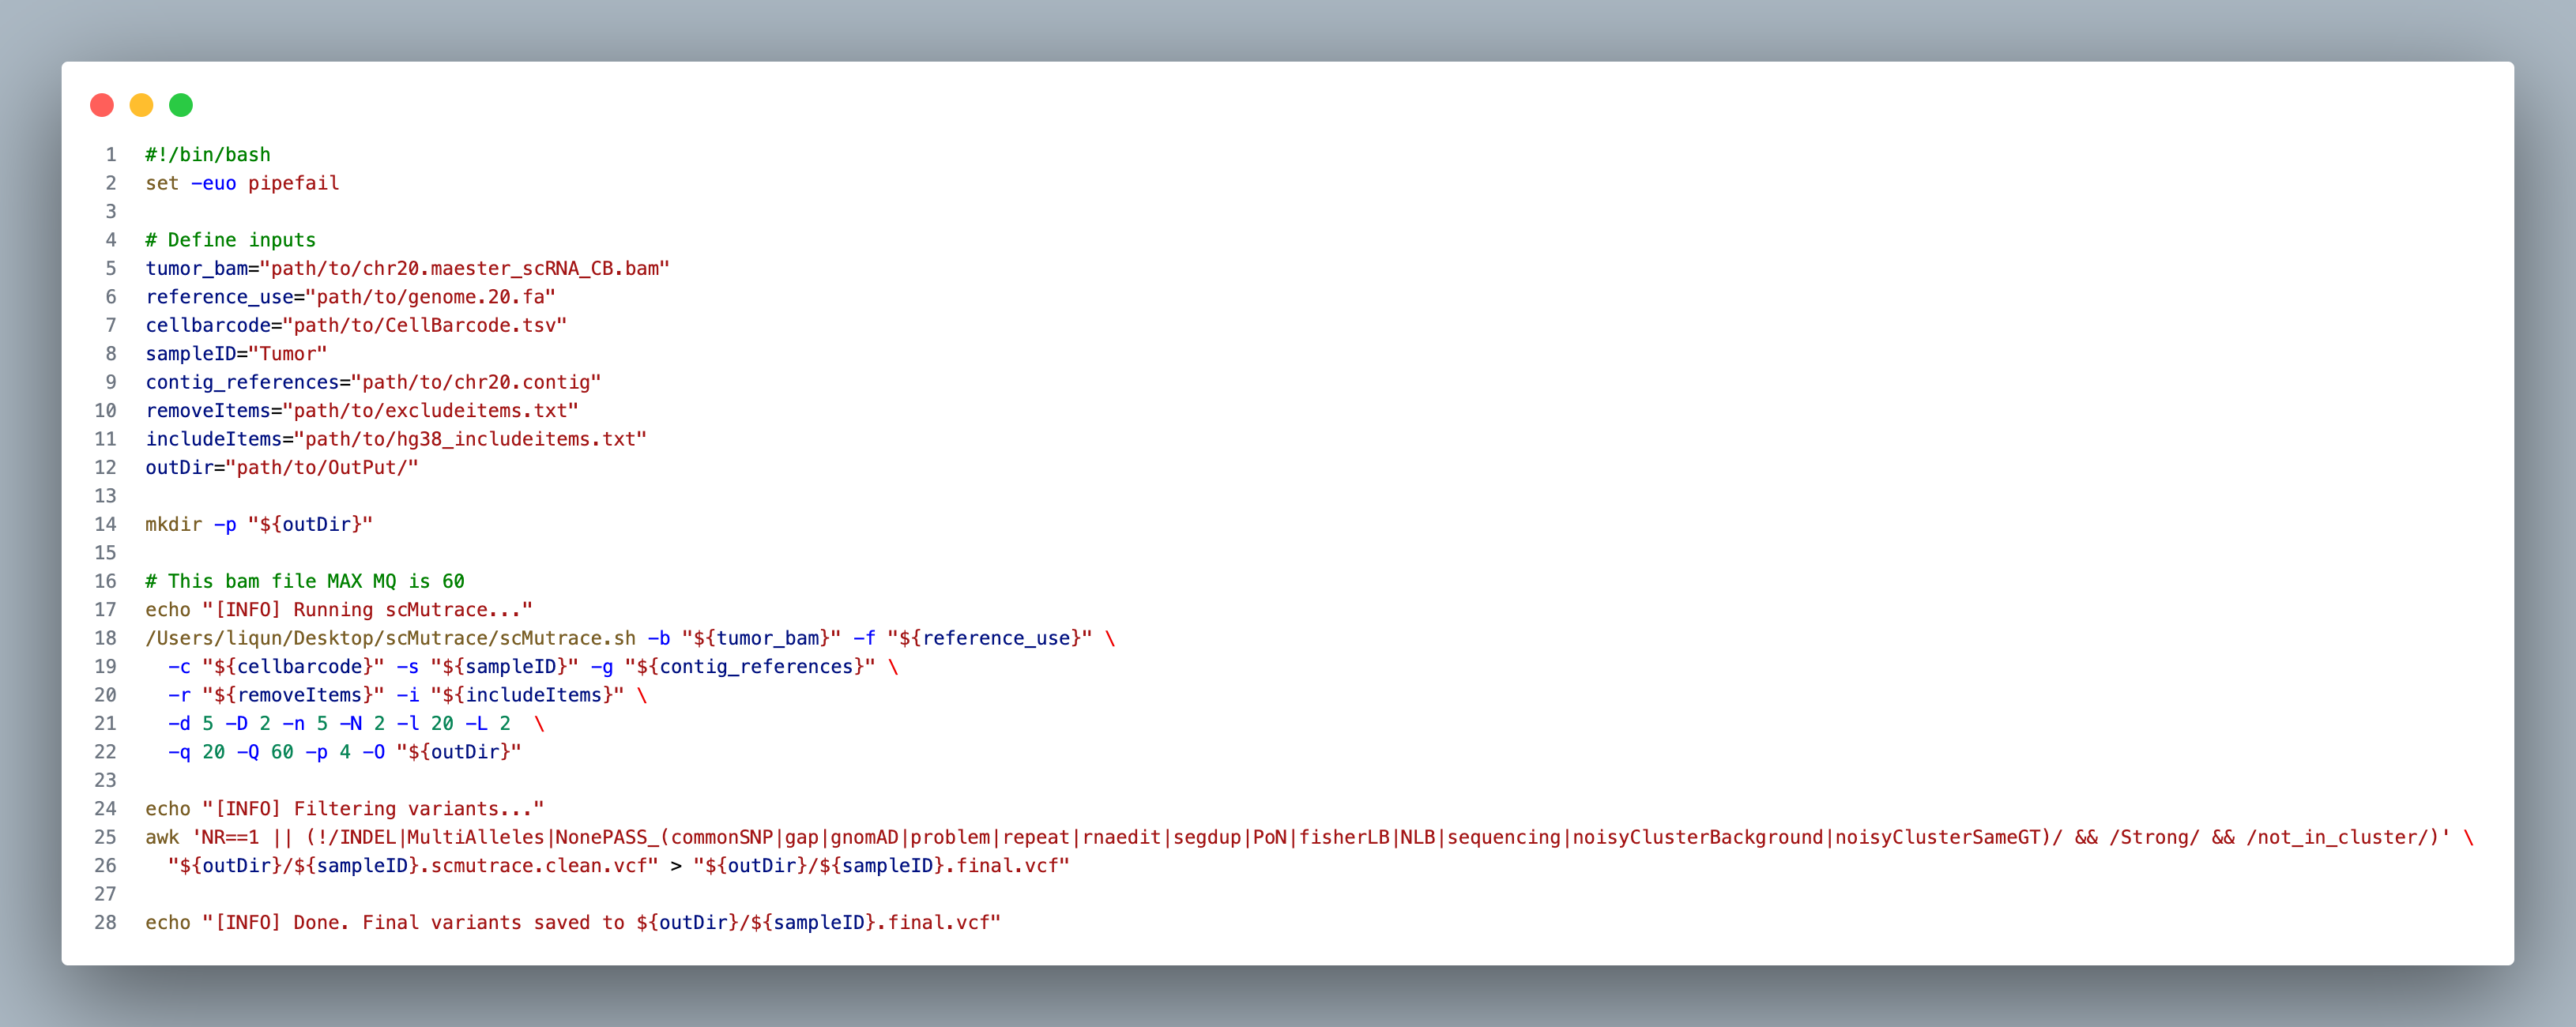
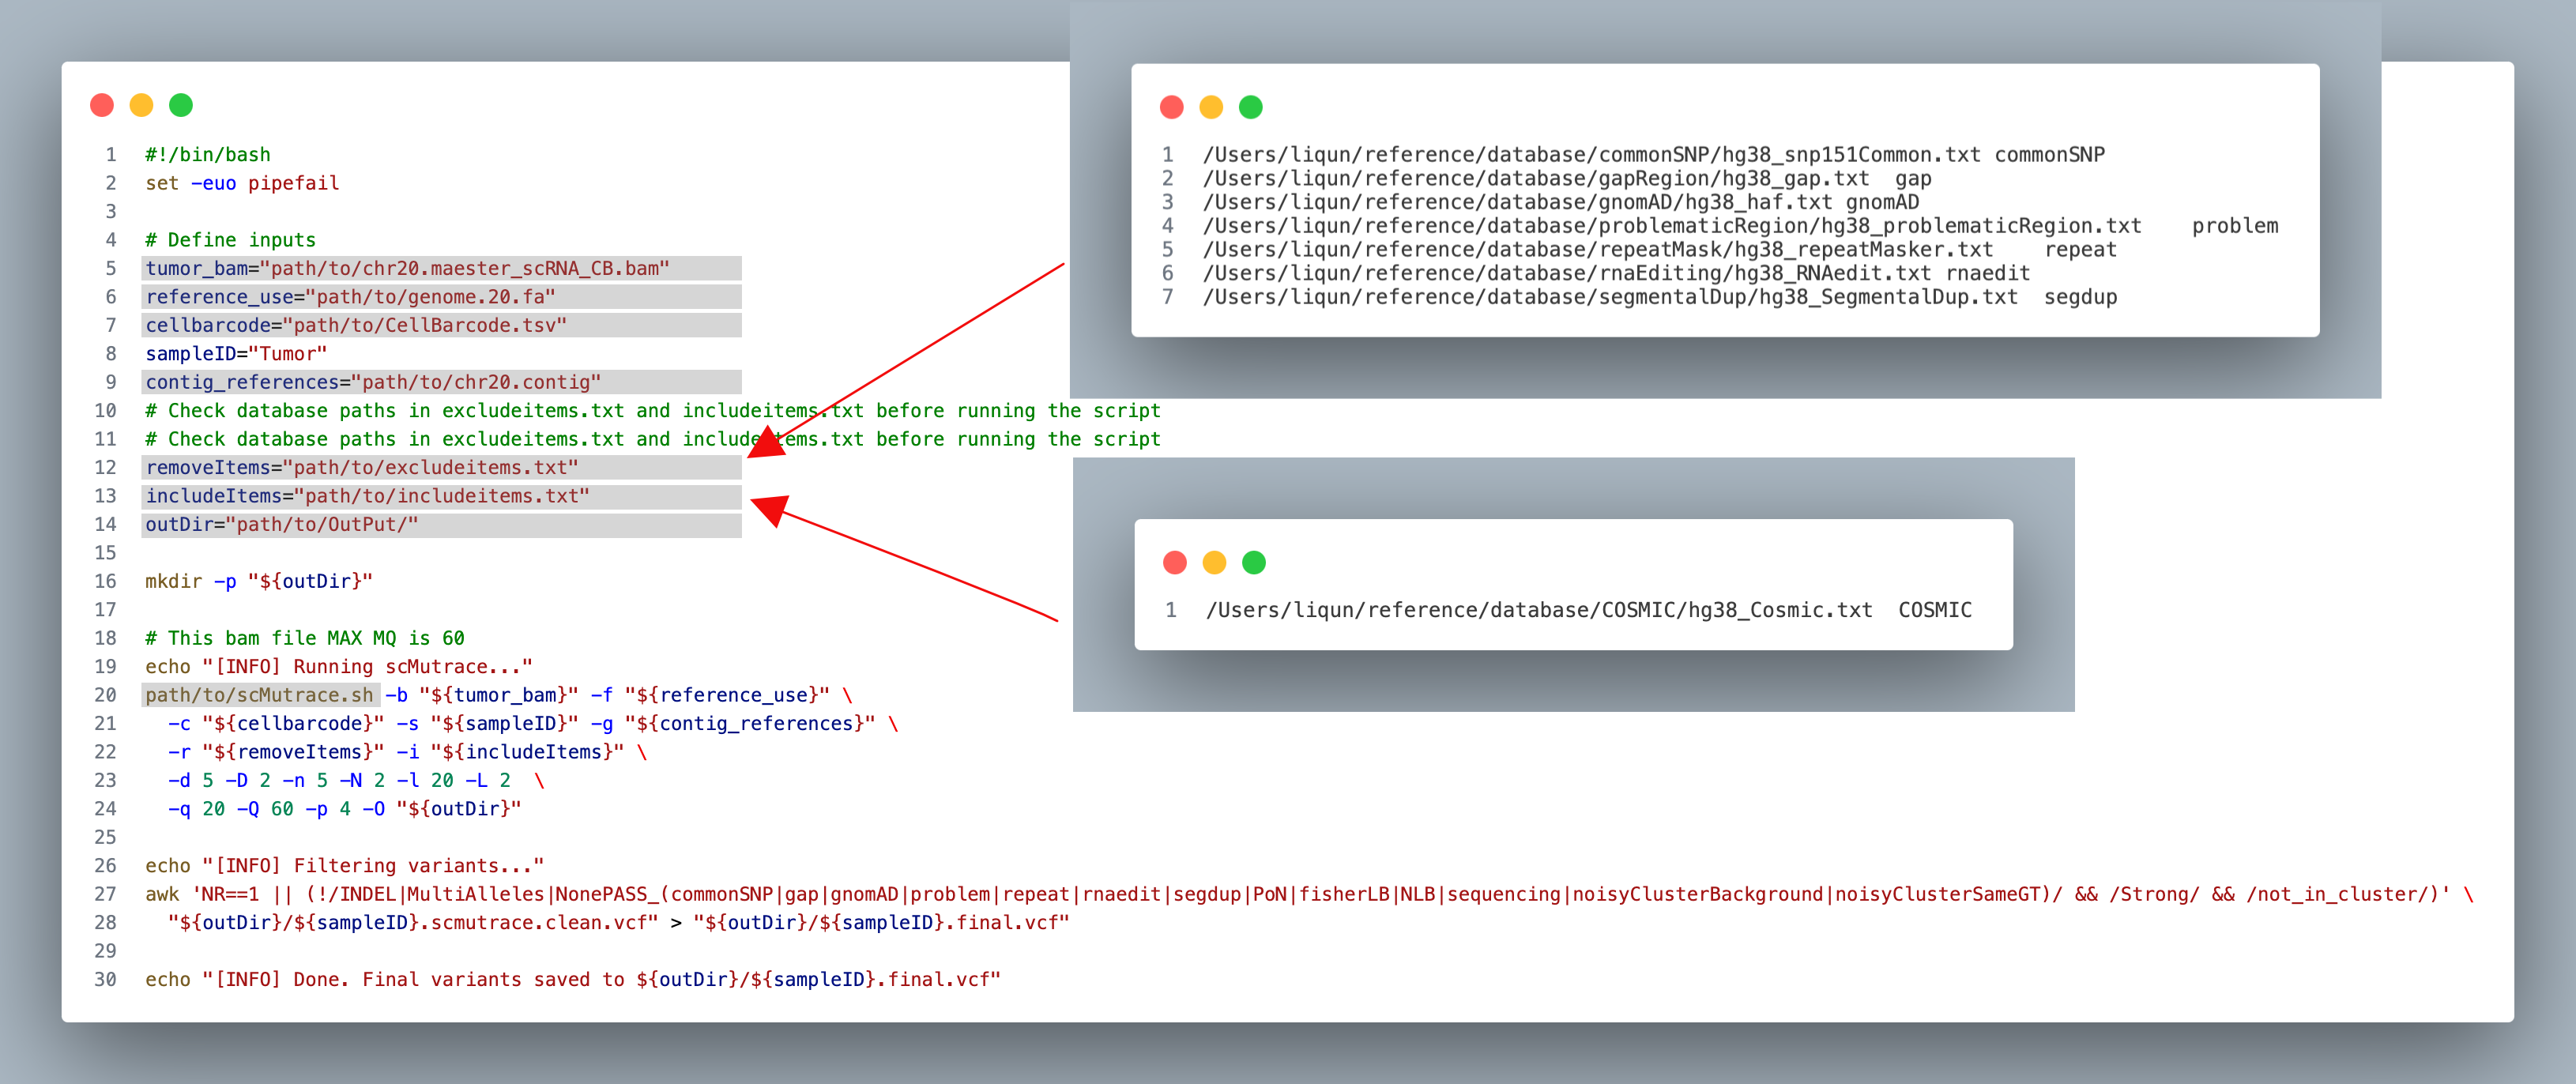
update path check highlight

Changed region(s): [[0.031, 0.0615, 0.9604, 0.9231], [0.031, 0.1231, 0.1239, 0.1846], [0.031, 0.0923, 0.062, 0.1231]]

diff --git a/QuickStart/Example3/README.md b/QuickStart/Example3/README.md
@@ -36,6 +36,9 @@ https://github.com/QunATCG/scMutrace#installation
 conda activate scMutrace
 ```
 
+You must **replace the paths below with your own local paths** (shown here as examples and highlighted for clarity)
+![scMutrace code](../../Figures/Example3/Example3_code.png)
+
 ```bash
 #!/bin/bash
 set -euo pipefail
@@ -68,7 +71,6 @@ awk 'NR==1 || (!/INDEL|MultiAlleles|NonePASS_(commonSNP|gap|gnomAD|problem|repea
 
 echo "[INFO] Done. Final variants saved to ${outDir}/${sampleID}.final.vcf"
 ```
-![scMutrace code](../../Figures/Example3/Example3_code.png)
 
 > awk is a powerful Unix command-line tool—best thought of as a mini programming language—designed for text processing and data extraction. It splits each line into fields using a delimiter (default is any whitespace) and lets you define patterns to match and actions to execute when those patterns are met:
 [sed, awk, vmstat and nestat commands](https://www.youtube.com/watch?v=4hJorSKg9E0)